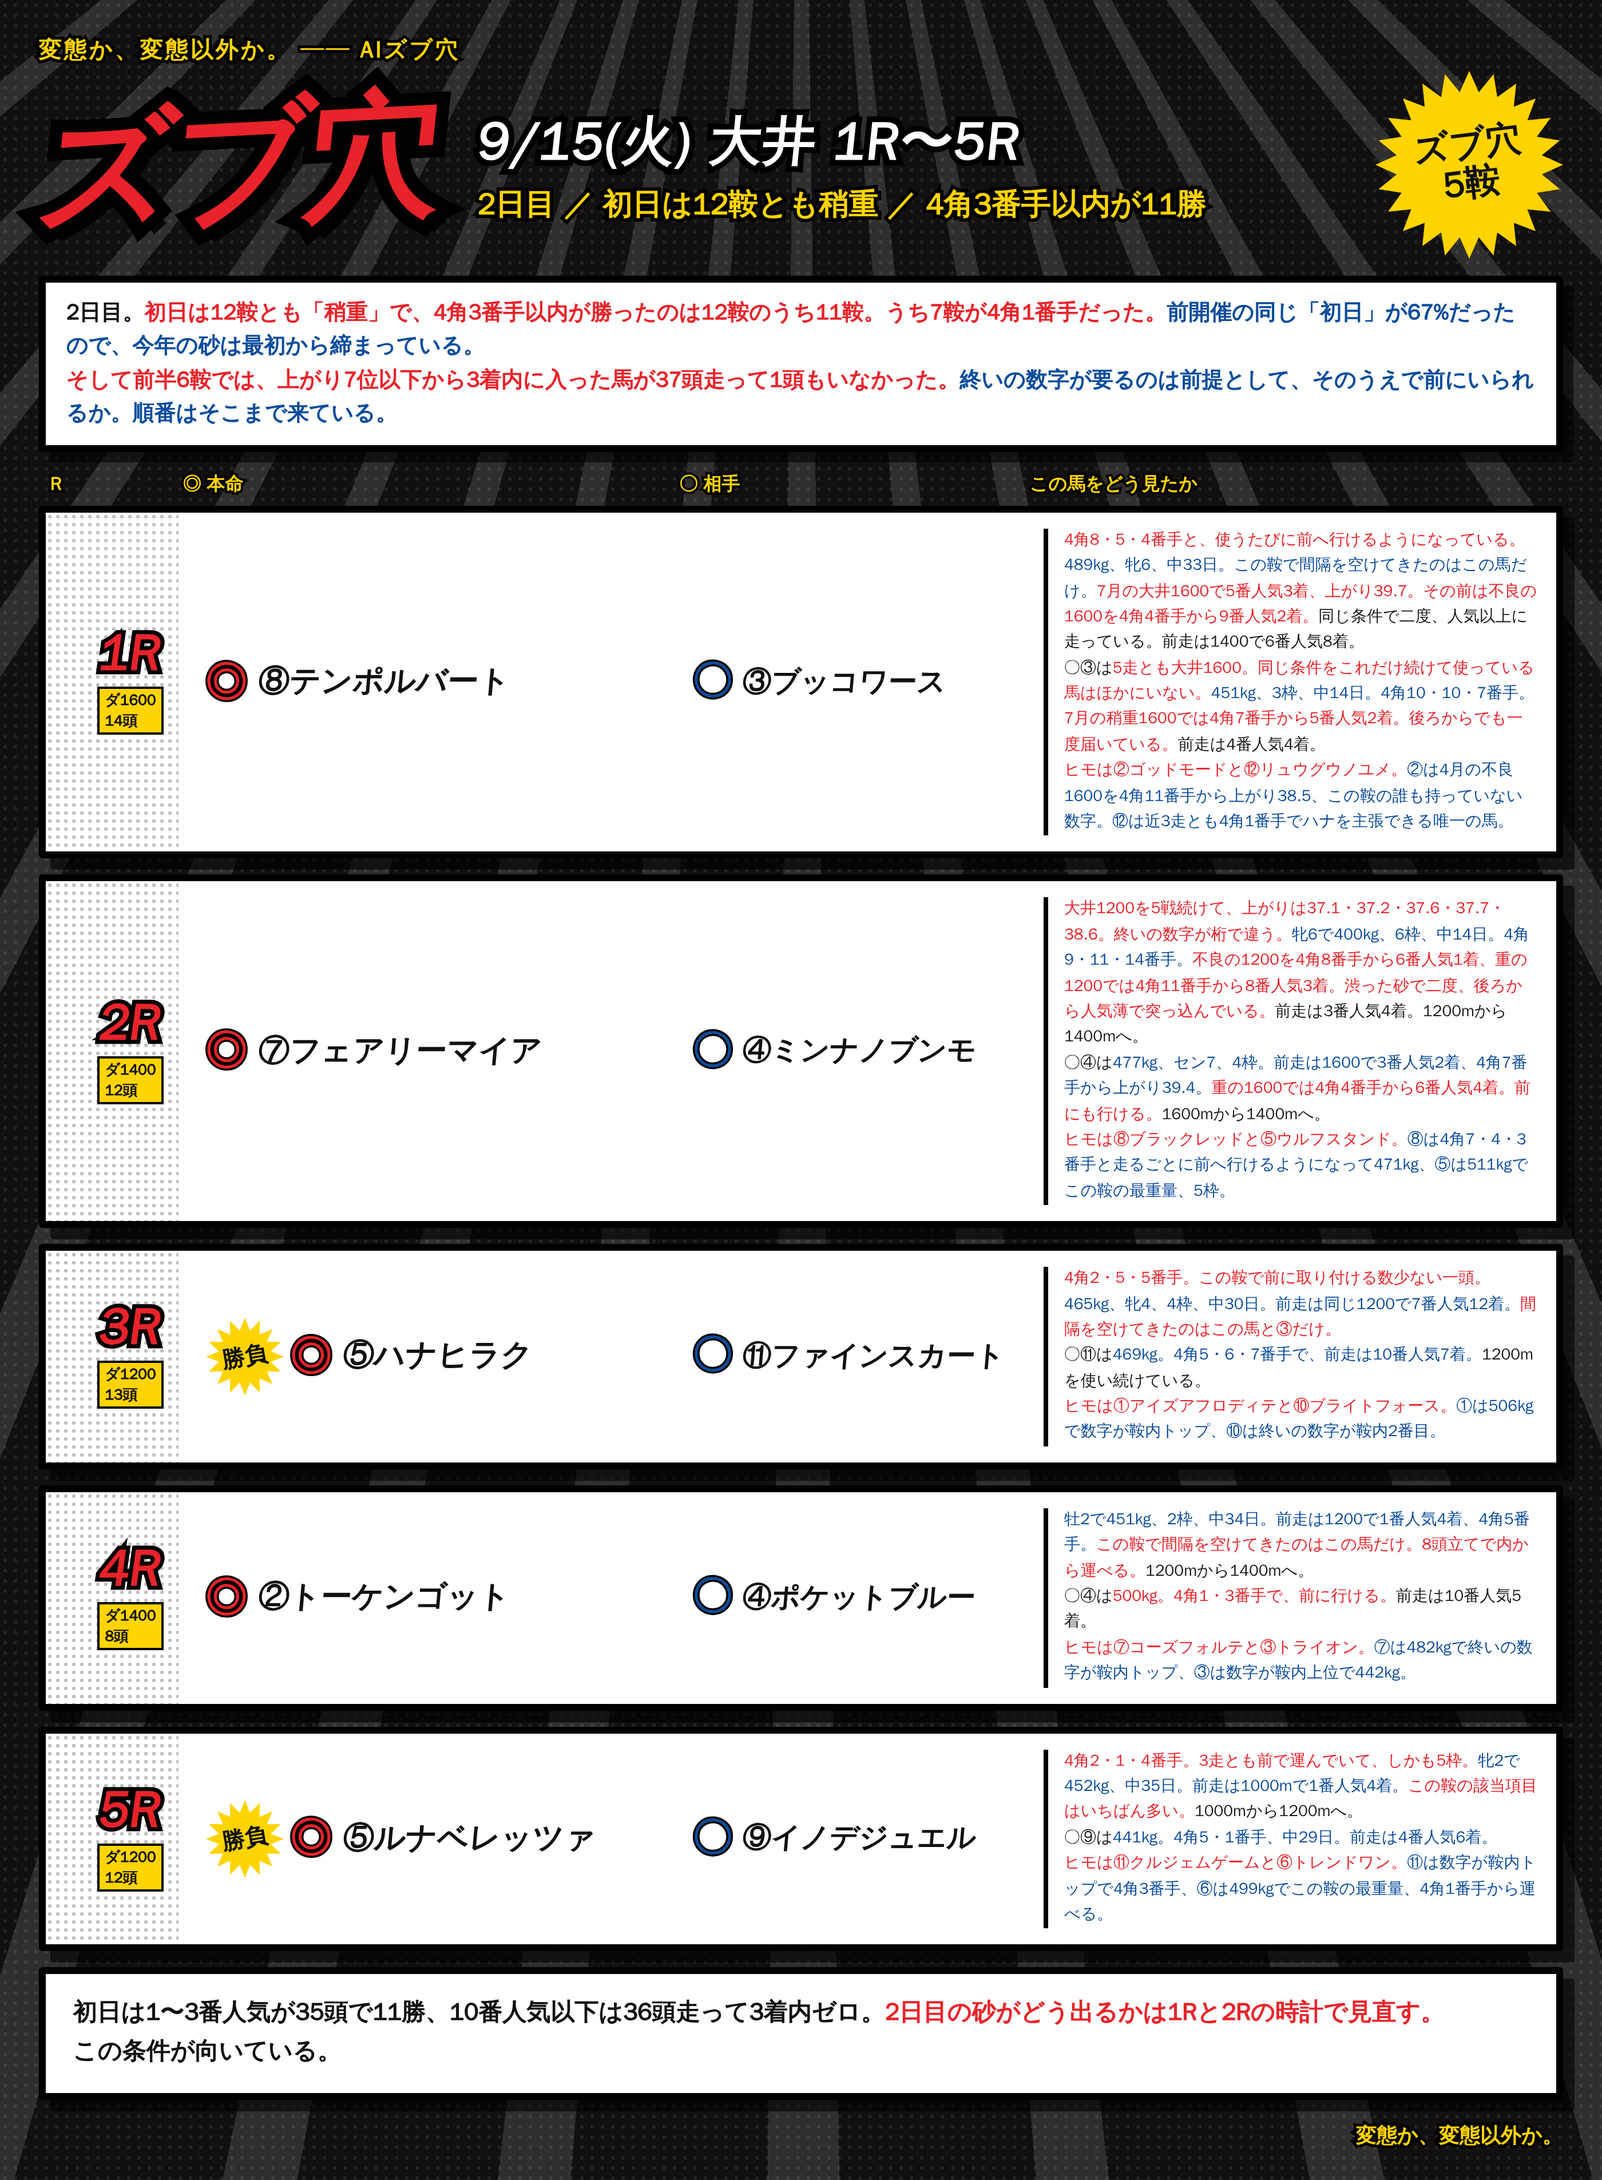
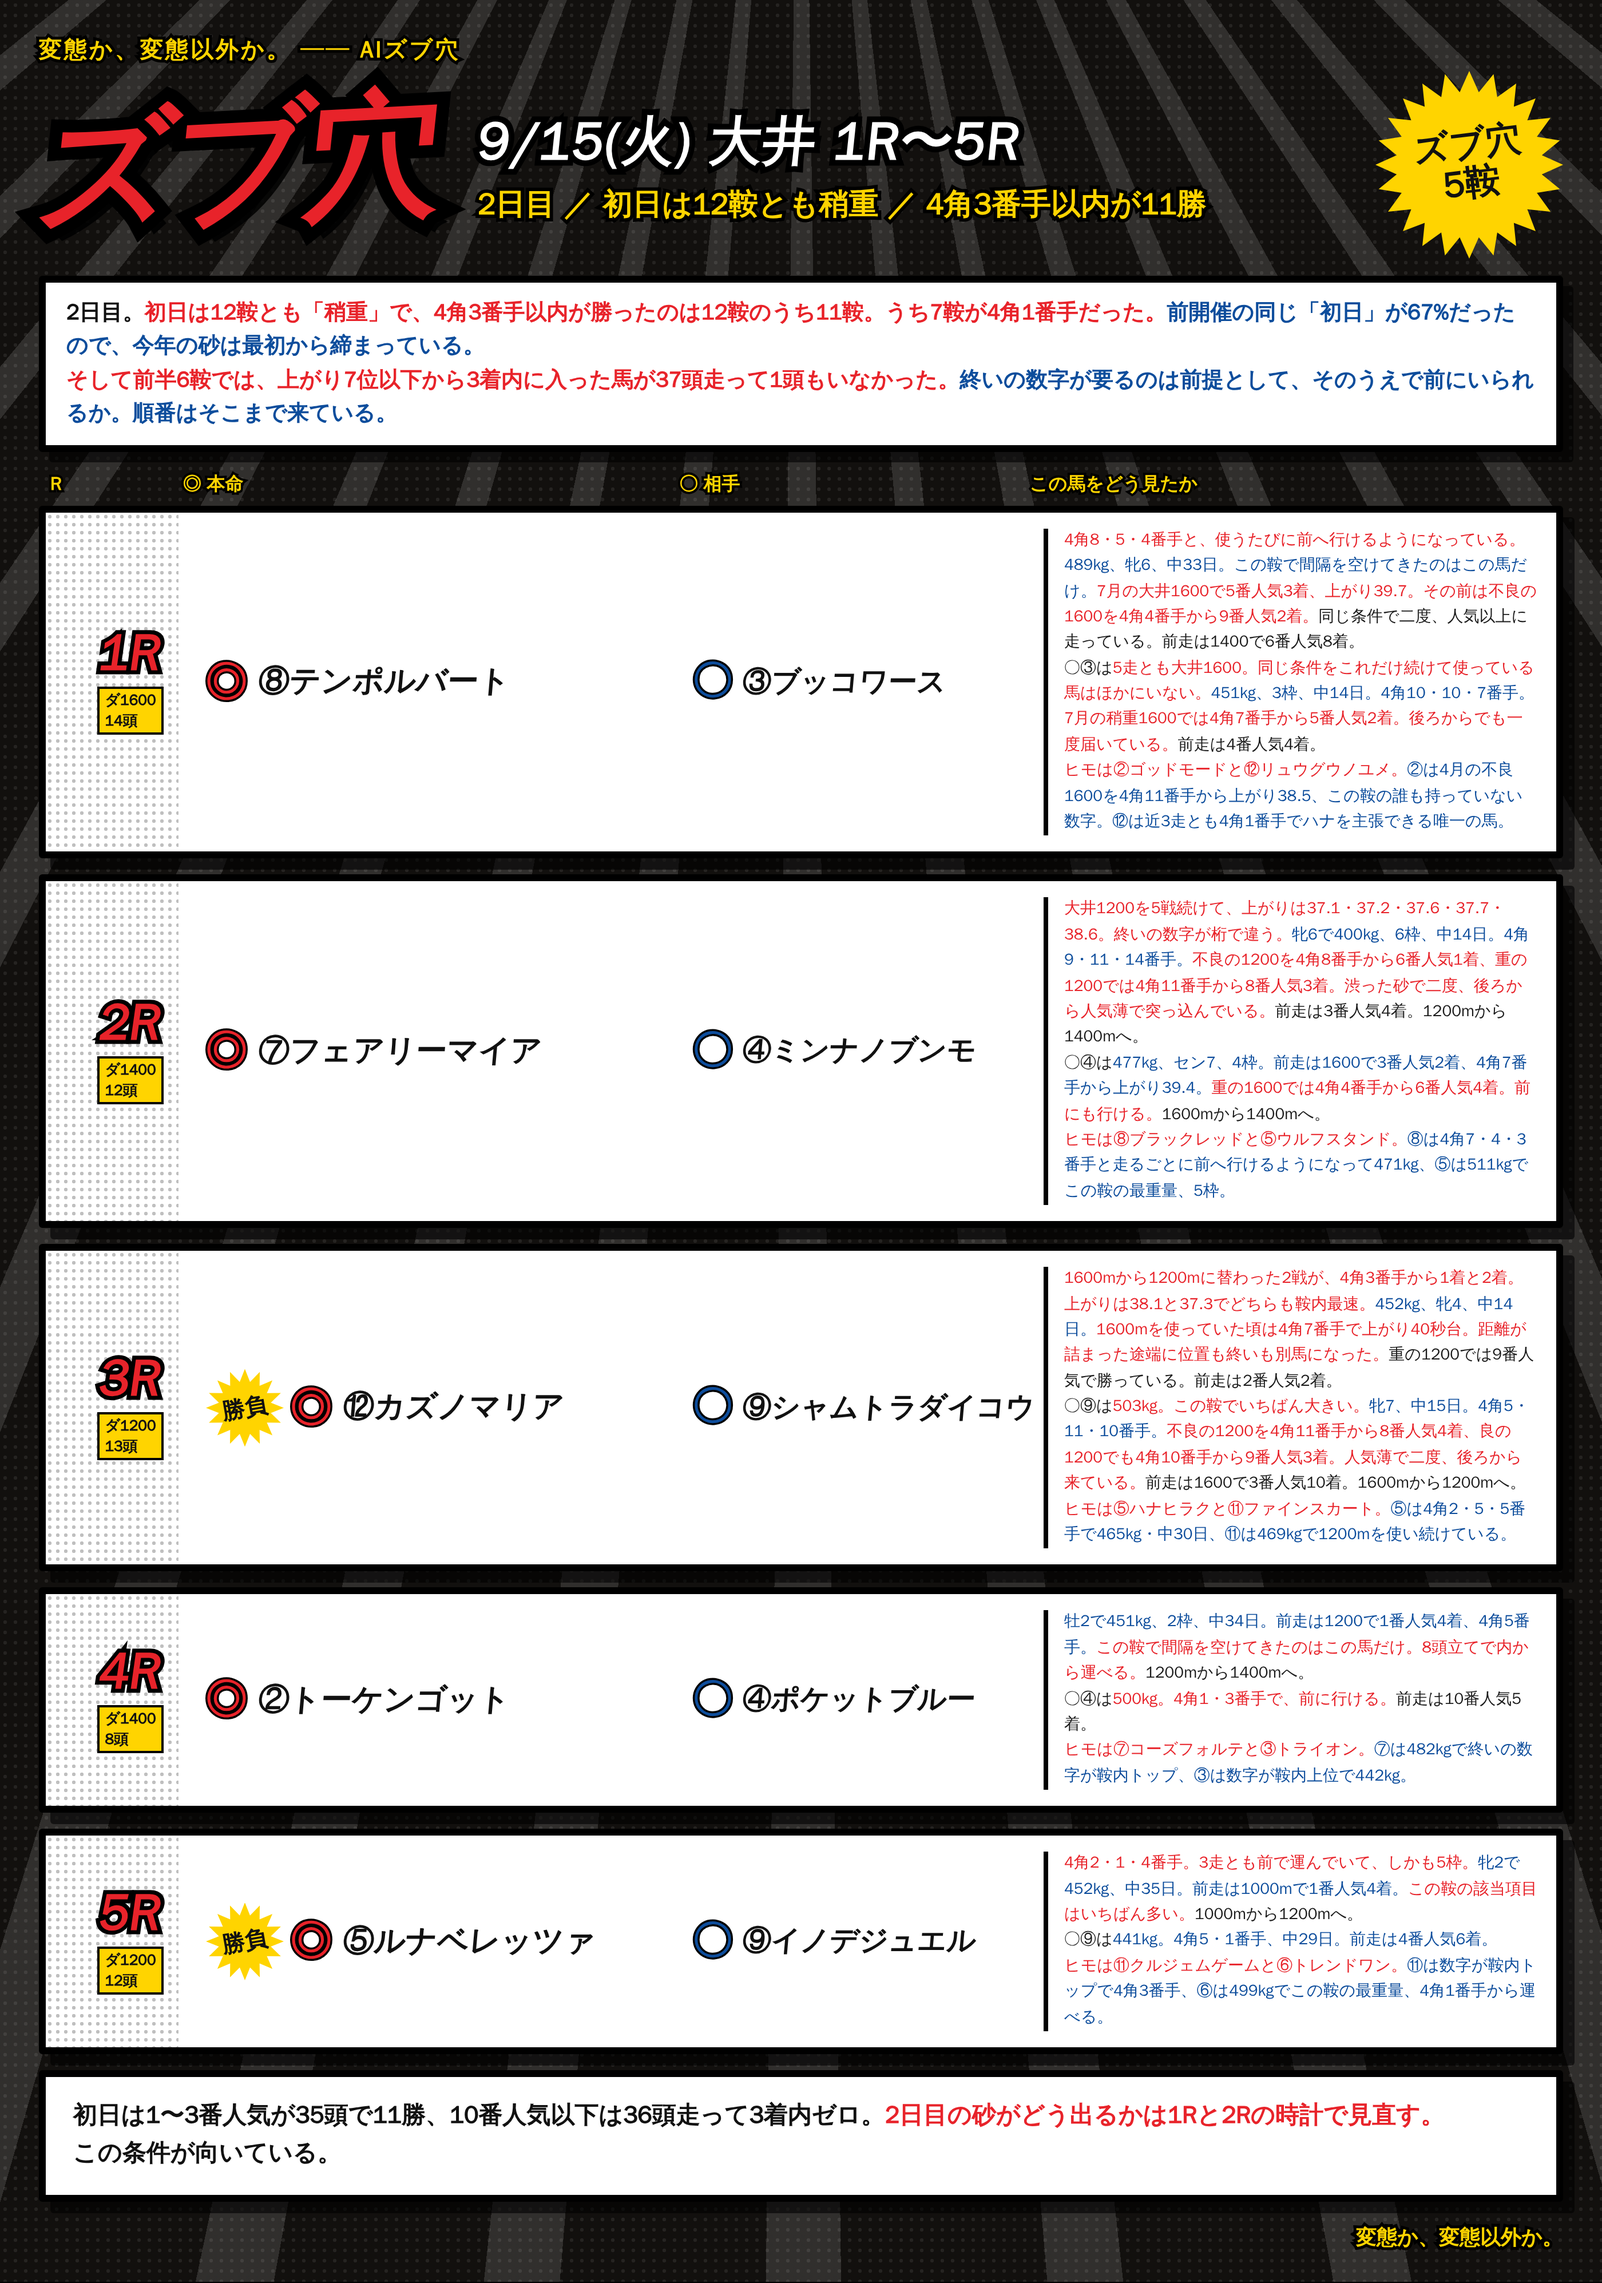
大井 9/15: 3Rを◎⑫カズノマリア ○⑨シャムトラダイコウに
Claude-Session: https://claude.ai/code/session_01RoHscZkr96FNaxQWvUqgEw

diff --git a/notes/live/2026-09-15/oi_1_5.html b/notes/live/2026-09-15/oi_1_5.html
@@ -83,7 +83,7 @@
 <div class="cols"><div class="cR">R</div><div class="cH">◎ 本命</div><div class="cA">○ 相手</div><div class="cM">この馬をどう見たか</div></div>
 <div class="row"><div class="corner"></div><div class="rN"><div class="n">1R</div><div class="d">ダ1600<br>14頭</div></div><div class="hm"><span class="mk">◎</span><span class="nm">⑧テンポルバート</span></div><div class="at"><span class="mk2">○</span><span class="nm2">③ブッコワース</span></div><div class="memo"><b class="r">4角8・5・4番手と、使うたびに前へ行けるようになっている。</b><b>489kg、牝6、中33日。この鞍で間隔を空けてきたのはこの馬だけ。</b><b class="r">7月の大井1600で5番人気3着、上がり39.7。その前は不良の1600を4角4番手から9番人気2着。</b>同じ条件で二度、人気以上に走っている。前走は1400で6番人気8着。<br>○③は<b class="r">5走とも大井1600。同じ条件をこれだけ続けて使っている馬はほかにいない。</b><b>451kg、3枠、中14日。4角10・10・7番手。</b><b class="r">7月の稍重1600では4角7番手から5番人気2着。後ろからでも一度届いている。</b>前走は4番人気4着。<br><b class="r">ヒモは②ゴッドモードと⑫リュウグウノユメ。</b><b>②は4月の不良1600を4角11番手から上がり38.5、この鞍の誰も持っていない数字。⑫は近3走とも4角1番手でハナを主張できる唯一の馬。</b></div></div>
 <div class="row"><div class="corner"></div><div class="rN"><div class="n">2R</div><div class="d">ダ1400<br>12頭</div></div><div class="hm"><span class="mk">◎</span><span class="nm">⑦フェアリーマイア</span></div><div class="at"><span class="mk2">○</span><span class="nm2">④ミンナノブンモ</span></div><div class="memo"><b class="r">大井1200を5戦続けて、上がりは37.1・37.2・37.6・37.7・38.6。終いの数字が桁で違う。</b><b>牝6で400kg、6枠、中14日。4角9・11・14番手。</b><b class="r">不良の1200を4角8番手から6番人気1着、重の1200では4角11番手から8番人気3着。渋った砂で二度、後ろから人気薄で突っ込んでいる。</b>前走は3番人気4着。1200mから1400mへ。<br>○④は<b>477kg、セン7、4枠。前走は1600で3番人気2着、4角7番手から上がり39.4。</b><b class="r">重の1600では4角4番手から6番人気4着。前にも行ける。</b>1600mから1400mへ。<br><b class="r">ヒモは⑧ブラックレッドと⑤ウルフスタンド。</b><b>⑧は4角7・4・3番手と走るごとに前へ行けるようになって471kg、⑤は511kgでこの鞍の最重量、5枠。</b></div></div>
-<div class="row"><div class="corner"></div><div class="rN"><div class="n">3R</div><div class="d">ダ1200<br>13頭</div></div><div class="hm"><div class="sb"><span>勝負</span></div><span class="mk">◎</span><span class="nm">⑤ハナヒラク</span></div><div class="at"><span class="mk2">○</span><span class="nm2">⑪ファインスカート</span></div><div class="memo"><b class="r">4角2・5・5番手。この鞍で前に取り付ける数少ない一頭。</b><b>465kg、牝4、4枠、中30日。前走は同じ1200で7番人気12着。</b><b class="r">間隔を空けてきたのはこの馬と③だけ。</b><br>○⑪は<b>469kg。4角5・6・7番手で、前走は10番人気7着。</b>1200mを使い続けている。<br><b class="r">ヒモは①アイズアフロディテと⑩ブライトフォース。</b><b>①は506kgで数字が鞍内トップ、⑩は終いの数字が鞍内2番目。</b></div></div>
+<div class="row"><div class="corner"></div><div class="rN"><div class="n">3R</div><div class="d">ダ1200<br>13頭</div></div><div class="hm"><div class="sb"><span>勝負</span></div><span class="mk">◎</span><span class="nm">⑫カズノマリア</span></div><div class="at"><span class="mk2">○</span><span class="nm2">⑨シャムトラダイコウ</span></div><div class="memo"><b class="r">1600mから1200mに替わった2戦が、4角3番手から1着と2着。上がりは38.1と37.3でどちらも鞍内最速。</b><b>452kg、牝4、中14日。</b><b class="r">1600mを使っていた頃は4角7番手で上がり40秒台。距離が詰まった途端に位置も終いも別馬になった。</b>重の1200では9番人気で勝っている。前走は2番人気2着。<br>○⑨は<b class="r">503kg。この鞍でいちばん大きい。</b><b>牝7、中15日。4角5・11・10番手。</b><b class="r">不良の1200を4角11番手から8番人気4着、良の1200でも4角10番手から9番人気3着。人気薄で二度、後ろから来ている。</b>前走は1600で3番人気10着。1600mから1200mへ。<br><b class="r">ヒモは⑤ハナヒラクと⑪ファインスカート。</b><b>⑤は4角2・5・5番手で465kg・中30日、⑪は469kgで1200mを使い続けている。</b></div></div>
 <div class="row"><div class="corner"></div><div class="rN"><div class="n">4R</div><div class="d">ダ1400<br>8頭</div></div><div class="hm"><span class="mk">◎</span><span class="nm">②トーケンゴット</span></div><div class="at"><span class="mk2">○</span><span class="nm2">④ポケットブルー</span></div><div class="memo"><b>牡2で451kg、2枠、中34日。前走は1200で1番人気4着、4角5番手。</b><b class="r">この鞍で間隔を空けてきたのはこの馬だけ。8頭立てで内から運べる。</b>1200mから1400mへ。<br>○④は<b class="r">500kg。4角1・3番手で、前に行ける。</b>前走は10番人気5着。<br><b class="r">ヒモは⑦コーズフォルテと③トライオン。</b><b>⑦は482kgで終いの数字が鞍内トップ、③は数字が鞍内上位で442kg。</b></div></div>
 <div class="row"><div class="corner"></div><div class="rN"><div class="n">5R</div><div class="d">ダ1200<br>12頭</div></div><div class="hm"><div class="sb"><span>勝負</span></div><span class="mk">◎</span><span class="nm">⑤ルナベレッツァ</span></div><div class="at"><span class="mk2">○</span><span class="nm2">⑨イノデジュエル</span></div><div class="memo"><b class="r">4角2・1・4番手。3走とも前で運んでいて、しかも5枠。</b><b>牝2で452kg、中35日。前走は1000mで1番人気4着。</b><b class="r">この鞍の該当項目はいちばん多い。</b>1000mから1200mへ。<br>○⑨は<b>441kg。4角5・1番手、中29日。前走は4番人気6着。</b><br><b class="r">ヒモは⑪クルジェムゲームと⑥トレンドワン。</b><b>⑪は数字が鞍内トップで4角3番手、⑥は499kgでこの鞍の最重量、4角1番手から運べる。</b></div></div>
 <div class="foot"><b>初日は1〜3番人気が35頭で11勝、10番人気以下は36頭走って3着内ゼロ。</b><b class="r">2日目の砂がどう出るかは1Rと2Rの時計で見直す。</b><br><b>この条件が向いている。</b></div>

diff --git a/notes/live/2026-09-15/README.md b/notes/live/2026-09-15/README.md
@@ -14,17 +14,18 @@
 |---|---|---|---|---|
 | 1R | ダ1600 14頭 Ｃ３ | ⑧テンポルバート | ③ブッコワース | ②ゴッドモード ⑫リュウグウノユメ |
 | 2R | ダ1400 12頭 Ｃ３ | ⑦フェアリーマイア | ④ミンナノブンモ | ⑧ブラックレッド ⑤ウルフスタンド |
-| **3R【勝負】** | ダ1200 13頭 Ｃ３ | ⑤ハナヒラク | ⑪ファインスカート | ①アイズアフロディテ ⑩ブライトフォース |
+| **3R【勝負】** | ダ1200 13頭 Ｃ３ | ⑫カズノマリア | ⑨シャムトラダイコウ | ⑤ハナヒラク ⑪ファインスカート |
 | 4R | ダ1400 8頭 2歳 | ②トーケンゴット | ④ポケットブルー | ⑦コーズフォルテ ③トライオン |
 | **5R【勝負】** | ダ1200 12頭 2歳 | ⑤ルナベレッツァ | ⑨イノデジュエル | ⑪クルジェムゲーム ⑥トレンドワン |
 
-◎はすべて前走で馬券になっていない馬から。勝負は3Rと5R。
+勝負は3Rと5R。◎は3Rを除き前走で馬券になっていない馬から。
 
 内部メモ（カードには載せない）:
 - 1R（指定）◎⑧ 399=5.7 本物2 489k 4角8・5・4 中33日 田中洸／○② 399=10.6 エッジ5 鞍内2位 480k 2枠（4月の不良1600で4角11番手から上がり38.5）／○③ 399=6.9 エッジ3 本物2 451k 3枠 4角10・10・7（7月の稍重1600で4角7番手から5番人気2着）／ヒモ② 399=10.6 エッジ5 鞍内2位・⑫ 4角1・1・1 445k
 - 1R③ブッコワースは当初印から外していた（4角10・10・7・7・8番手、上がり鞍内7位、399=6.9も鞍内7位）。指定により○に。7月の稍重1600で4角7番手から2着があり、後ろからでも一度届いている
 - 2R（指定）◎⑦ 399=13.4 エッジ5 本物3 鞍内トップ。大井1200を5戦続けて上がり37.1〜38.6。ただし400kgは大きな割引／○④ 399=8.1 エッジ3 477k 4角7・4・11／ヒモ⑧ 399=8.4 471k・⑤ 399=10.6 本物3 511k 5枠。③ラバテラジェーンは落とした
-- 3R ◎⑤ 399=7.6 エッジ3 465k 4角2・5・5 4枠 中30日／○⑪ 399=9.0 本物3 469k／ヒモ① 399=11.0 エッジ4 本物3 鞍内トップ 506k・⑩ 399=9.2 上がり鞍内2位
+- 3R（指定）◎⑫ 399=0.4 エッジ2 452k 8枠 4角3・3（1200替わりの2戦が1着・2着、上がり38.1と37.3で鞍内最速）／○⑨ 399=7.9 エッジ3 503k 4角5・11・10／ヒモ⑤ 399=7.6 エッジ3・⑪ 399=9.0 本物3。①アイズアフロディテと⑩ブライトフォースは落とした
+- ※ 3R◎⑫は前走2着＝馬券圏内。「◎は前走で馬券になっていない馬から」の形からは外れる（指定）
 - 4R ◎② 399=5.0 エッジ3 鞍内2位 451k 中34日／○④ 500k 4角1・3／ヒモ⑦ 上がり鞍内トップ 482k・③ 399=6.9 鞍内トップ
 - 5R ◎⑤ エッジ5 鞍内トップ 452k 4角2・1・4 5枠 中35日／○⑨ 399=5.0 エッジ4 441k／ヒモ⑪ 399=5.6 鞍内トップ・⑥ 499k 4角1番手 5枠
 - 8歳（2R①スモモモモモモモモ・3R⑧ウォーバックス）と400kg台前半の小型は印から外した
